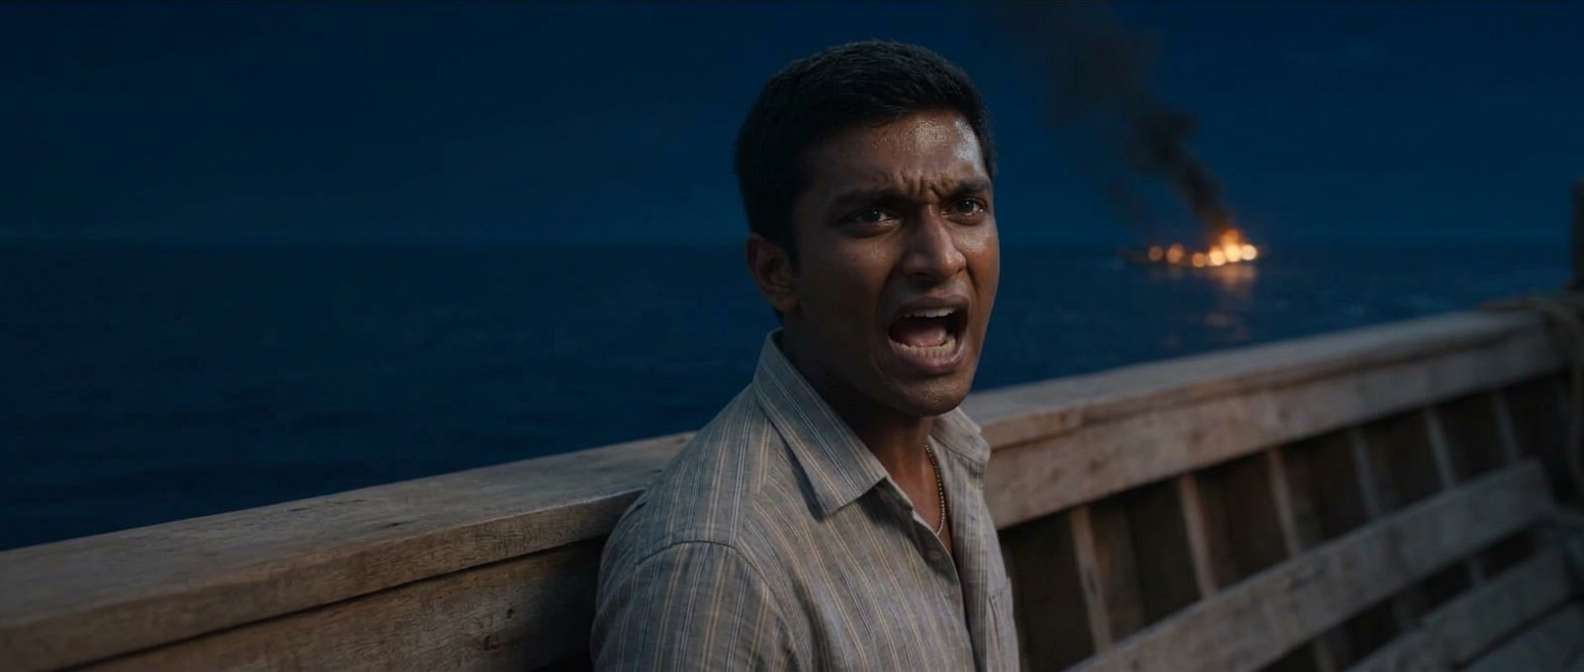
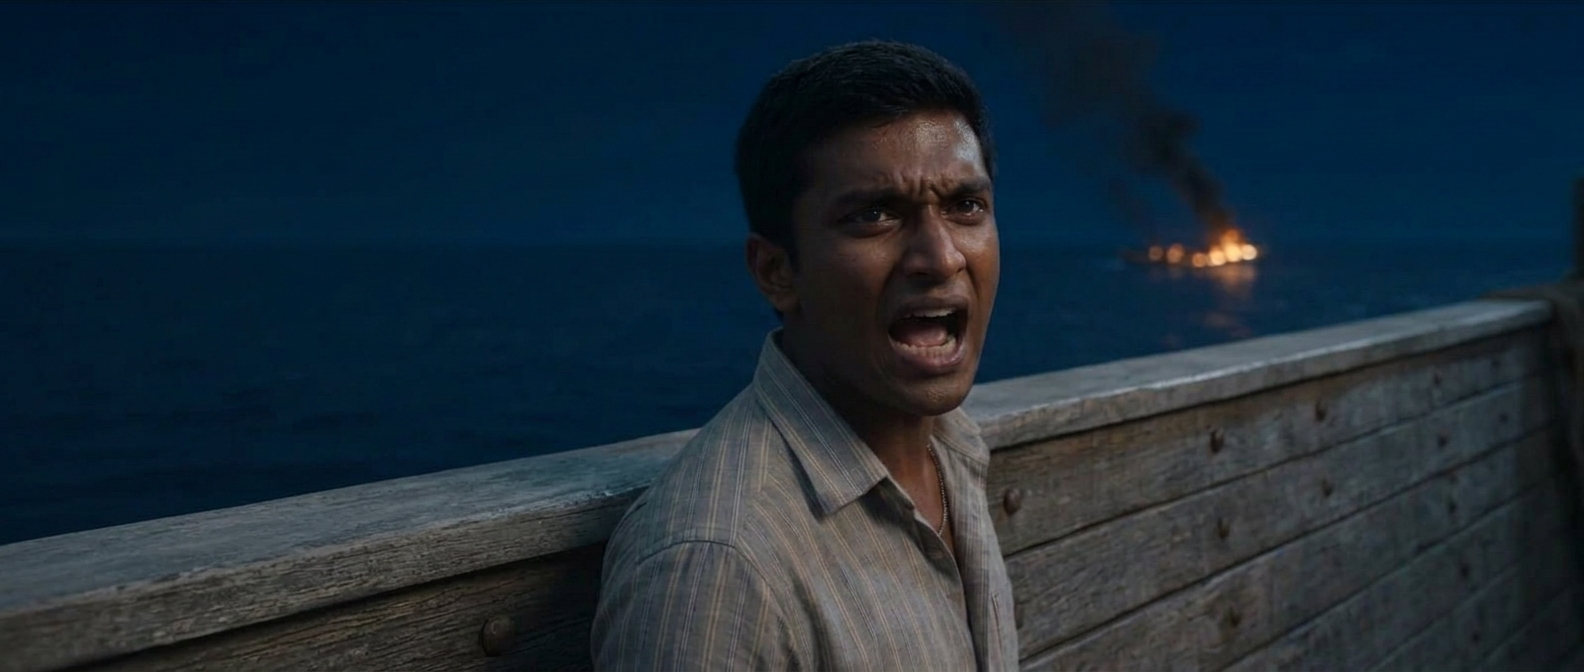
Ranjith: shot: s23-sh06 v11 rail fixed (solid grey bolted bulwark); take logged as failed

diff --git a/scenes/showreel/s23-sh06.md b/scenes/showreel/s23-sh06.md
@@ -14,7 +14,7 @@ SCENE
 Full-moon night, 1998, the open sea off Kerala, at the left rail of our wooden cargo uru. One continuous shot, 8 seconds. Antony, at the rail with the burning boat far behind him, spins round to the frightened crew on the deck and shouts an order in Malayalam. He is alone in the frame.
 
 MEMORY (the same night in every shot; nothing changes unless this block says so)
-Place: our uru: the left rail of turned wooden posts with a broad flat top rail, about waist high; behind it the open sea.
+Place: our uru: the left rail is a SOLID bulwark of thick grey, weathered, sun-bleached timber, closed with no gaps or slats, round iron bolt heads along it, a broad flat grey top, about waist high, exactly as in the reference image and @s23sh06antony; behind it the open sea.
 Light: a clear full-moon night; the full moon stands high, ahead and to the RIGHT of the bow, here behind the camera and to its right: its silver-blue light falls on Antony's face from the front, slightly from the right of the frame. Deep navy sky, deep blue sea, never black; no moon in frame.
 People: Antony: 24, lean, sun-browned, short black hair; grey-beige short-sleeve shirt with thin vertical stripes, green-grey checked mundu, barefoot, bare wrists. One of him, never a copy.
 Fire: one small fishing vallam burning 500 m away, ahead-left of the uru; in this view far behind Antony at the RIGHT of the frame, small but clearly a boat on fire, its smoke leaning right; never close.
@@ -27,7 +27,7 @@ Reference image (0.0s–8.0s): the last frame of the previous shot, for the rail
 @burningvallamnomoon (background only, 500 m): the same burning boat, small and far at the right edge, nobody on it.
 
 WHAT IS IN FRAME
-Only Antony; behind him, soft: the top rail, the moonlit sea and horizon, and at the right the small burning boat with its smoke and reflection. No other person. No hand or prop near the camera. No lettering anywhere.
+Only Antony; behind him, soft: the solid grey bolted bulwark and its flat top, the moonlit sea and horizon, and at the right the small burning boat with its smoke and reflection. No other person. No hand or prop near the camera. No lettering anywhere.
 
 FIRST FRAME
 Antony in MS from the deck side, his back half to us, gripping the rail and staring out at the fire.
@@ -73,7 +73,7 @@ STYLE
 Photoreal 1998 Kerala period feature film. Shot on a Sony Venice 2 full-frame digital cinema camera: very wide dynamic range; clean, low-noise shadows; soft, gradual highlight roll-off; accurate, natural colour with rich, true skin tones; gentle filmic contrast; fine, organic texture; no over-sharpening, no glossy or video look. Deep blue full-moon night with one small orange fire.
 
 POSITIVE LOCKS
-Antony alone in frame, MCU while he speaks, looking just right of the lens, never into it. The fire stays small and far at the right, 500 m. After the line he stays silent for the last 4 seconds. Every word is Malayalam. Runs the full 8 seconds.
+The rail is the solid grey bolted bulwark, never open slats or brown planks. Antony alone in frame, MCU while he speaks, looking just right of the lens, never into it. The fire stays small and far at the right, 500 m. After the line he stays silent for the last 4 seconds. Every word is Malayalam. Runs the full 8 seconds.
 
 When @antony20 says "കയർ കൊണ്ടുവാ വേഗം!" let it be shouted and urgent, a young man who will not stand by while someone drowns, ordering older men to move now
 ```
@@ -84,11 +84,13 @@ When @antony20 says "കയർ കൊണ്ടുവാ വേഗം!" let it be
 - QA 88. Risks: Balan sliding into the frame; the far fire coming close; the push-in still moving during the line.
 
 ## Generation results
+- v11 [failed] (2026-11-12, Ranjith) the rail behind Antony came out as raw brown planks with open slats, not the uru's solid grey bolted bulwark: copied from my keyframe, which QC had passed as minor (L152). Keyframe fixed, rail written into MEMORY and the locks. Frame: `evidence/s23-sh06-v11/`.
 - v6 [failed] [camera-exp] (2026-11-10, Ranjith) a different-looking scene: a plain low wall and empty sea instead of the uru, bright even studio-like light, plastic skin, Antony standing stiff and half smiling, a whole burning boat visible; 5 s instead of 8 (L122).
 - v5 [failed] [camera-exp] (2026-11-10, Ranjith) two invented men in Antony-style striped shirts in frame instead of Raghavan and Babu, the burning vallam close and big beside the uru, a lantern on a post that never existed, and the words changed (L119). Evidence: `evidence/s23-sh06-v5-strangers-boat-too-close.jpg`.
 
 
 ## History
+- v11 (2026-11-12, later): rail fixed after the take (L152): keyframe @s23sh06antony re-edited with the solid grey bolted bulwark; MEMORY Place and POSITIVE LOCKS describe it.
 - v11 (2026-11-12): Ranjith chose a reverse close-up with a slow push-in after the shots from behind; Antony alone at the left rail, the fire behind his shoulder; MEMORY; keyframe @s23sh06antony; line and timing kept.
 - v10 (2026-11-12): Ranjith: follows s23-sh05 v6 (the crew were already awake in the approved s21-sh04 take; Aashaan back at the wheel, end order unchanged, so this shot stands). Antony's shirt is the grey-beige stripes of the night (MEMORY); Raghavan's towel written with its tell (L149).
 - v9 (2026-11-12): Ranjith: full-moon redo (SB027–SB032) in the look of his reference video: moon placed by the night sheet (ahead-right of the bow, L142), blue readable light, the bow is @urubowplate (L143), plates swapped to the full-moon IDs. Action, positions, lines and timing unchanged (L114). A start image means the last frame of the NEW full-moon take of the shot before.

diff --git a/scenes/showreel/image-qa/s23-wake-keyframes-qc.md b/scenes/showreel/image-qa/s23-wake-keyframes-qc.md
@@ -26,4 +26,4 @@ Edited from @s23backlast. Both rolled mats in place (L151), Antony and Babu unch
 - @s23sh06cstart re-edit (2026-11-12): Suresh removed, because the approved s23-sh06b take never shows him (Ranjith). Nothing else changed.
 
 ## s23-sh06 (Ranjith 2026-11-12)
-- @s23sh06antony: Antony alone in MCU, grey-beige stripes, face lit from the front, the burning boat small and far at the right (500 m), no moon in frame, nobody else. The rail reads as plain planks rather than turned posts (minor; the reference image carries the rail). Score 86.
+- @s23sh06antony: Antony alone in MCU, grey-beige stripes, face lit from the front, the burning boat small and far at the right (500 m), no moon in frame, nobody else. Score 86. **Wrong call:** the rail was raw slatted planks, not the solid grey bolted bulwark of the approved takes; passed as minor and copied into the take (L152). Re-edited with @s23backlast as the rail reference: now the solid grey bulwark with bolt heads.
